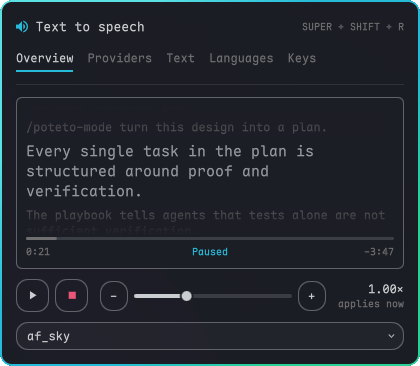
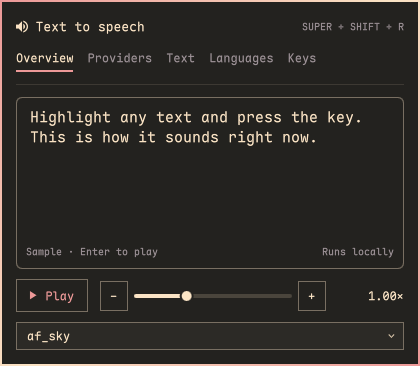
Add a Preferences tab and toggle the voice list on a second click (#8)
Text becomes Preferences, with a Text section (the sanitizer rules and a
compact length-limit row) and a Screen section that now holds the OCR
confidence floor as one slider row. Providers lists engines only, without
the captures note. A press on the voice field no longer closes the list
and reopens it on release, so clicking it again closes it. The README now
shows preview.png, refreshed from a live screenshot.

diff --git a/Panel.qml b/Panel.qml
@@ -19,7 +19,7 @@ Panel {
   readonly property color dim: Commons.Color.muted
   readonly property string ff: bar ? bar.fontFamily : Style.font.family
   property int currentTab: 0
-  readonly property var tabNames: ["Overview", "Providers", "Text", "Languages", "Keys"]
+  readonly property var tabNames: ["Overview", "Providers", "Preferences", "Languages", "Keys"]
   // Sections test the name, not the index, so adding or reordering a tab
   // touches only the list above.
   readonly property string currentTabName: tabNames[currentTab] || ""
@@ -285,6 +285,10 @@ Panel {
   function openUpwardWhenCramped(dropdown) {
     var popup = root.findPopup(dropdown)
     if (!popup || !popup.parent) return
+    // A press on the field itself used to close the list on press-outside
+    // and then reopen it on click. Only presses outside the field close it
+    // now, so a second click on the field toggles it shut.
+    popup.closePolicy = Popup.CloseOnEscape | Popup.CloseOnPressOutsideParent
     var anchor = popup.parent, gap = Style.spacing.xxs
     popup.y = Qt.binding(function() {
       var top = anchor.mapToItem(root, 0, 0).y
@@ -1240,7 +1244,6 @@ Panel {
           Item {
             width: parent.width; height: engineHeader.implicitHeight
             PanelSectionHeader { id: engineHeader; text: "Screen reading"; foreground: root.fg }
-            Text { anchors.right: parent.right; anchors.verticalCenter: parent.verticalCenter; text: "Captures stay on this computer"; color: root.dim; font.family: root.ff; font.pixelSize: Style.font.caption }
           }
           Component {
             id: ocrRow
@@ -1331,33 +1334,6 @@ Panel {
             onCancelled: root.ocrConfirmUninstall = ""
             onConfirmed: function(uninstallTarget) { controller.uninstall(uninstallTarget); root.ocrConfirmUninstall = "" }
           }
-          Item {
-            // A setting of the engine above, not a third group: caption-sized,
-            // with a little air between it and the last engine row.
-            width: parent.width; height: ocrHeader.implicitHeight + Style.space(6)
-            visible: root.activeOcrEngine && root.activeOcrEngine.supportsConfidence === true
-            Text { id: ocrHeader; anchors.bottom: parent.bottom; text: "Confidence floor"; color: root.dim; font.family: root.ff; font.pixelSize: Style.font.caption }
-            Text { anchors.right: parent.right; anchors.bottom: parent.bottom; text: root.confidenceValue > 0 ? root.confidenceValue + "%" : "keep everything"; color: root.fg; font.family: root.ff; font.pixelSize: Style.font.caption }
-          }
-          Row {
-            width: parent.width; spacing: 8
-            visible: root.activeOcrEngine && root.activeOcrEngine.supportsConfidence === true
-            Button { width: 32; text: "−"; bordered: true; focusable: true; onClicked: { var s = Math.max(0, root.confidenceValue - 5); root.confidenceOverride = s; controller.setConfig(".ocr.minConfidence", s) } }
-            PanelSlider {
-              id: confidenceSlider
-              width: parent.width - 80; bar: root.bar
-              minimum: 0; maximum: 95; step: 5; integer: true
-              value: root.confidenceValue
-              function snap(v) { return Math.round(v / 5) * 5 }
-              onMoved: function(v) { var s = confidenceSlider.snap(v); root.confidenceOverride = s; confidenceSlider.liveValue = s }
-              onReleased: function(v) {
-                var s = confidenceSlider.snap(v)
-                root.confidenceOverride = s
-                controller.setConfig(".ocr.minConfidence", s)
-              }
-            }
-            Button { width: 32; text: "+"; bordered: true; focusable: true; onClicked: { var s = Math.min(95, root.confidenceValue + 5); root.confidenceOverride = s; controller.setConfig(".ocr.minConfidence", s) } }
-          }
           // One progress line for the tab: setup runs one engine at a time, speech
           // or OCR, so the two groups never need a line each.
           Text {
@@ -1372,8 +1348,8 @@ Panel {
 
         // Text -------------------------------------------------------------
         Column {
-          width: parent.width; spacing: 8; visible: !root.needsSetup && root.currentTabName === "Text"
-          PanelSectionHeader { text: "What gets spoken"; foreground: root.fg }
+          width: parent.width; spacing: 8; visible: !root.needsSetup && root.currentTabName === "Preferences"
+          PanelSectionHeader { text: "Text"; foreground: root.fg }
           Row {
             width: parent.width; spacing: 8
             Rectangle {
@@ -1405,24 +1381,36 @@ Panel {
           SettingToggle { label: "Announce skipped code blocks"; checked: controller.info.sanitizer?.announceCodeBlocks !== false; foreground: root.fg; onToggled: function(value) { controller.setConfig(".sanitizer.announceCodeBlocks", value) } }
           SettingToggle { label: "Strip Markdown symbols"; checked: controller.info.sanitizer?.stripMarkdown !== false; foreground: root.fg; onToggled: function(value) { controller.setConfig(".sanitizer.stripMarkdown", value) } }
           SettingToggle { label: "Expand abbreviations and units"; checked: controller.info.sanitizer?.expandUnits !== false; foreground: root.fg; onToggled: function(value) { controller.setConfig(".sanitizer.expandUnits", value) } }
-          // How much of a selection is read. It shapes what gets spoken, so
-          // it lives with the other text rules rather than with the voice.
+          // How much of a selection is read. It shapes what gets spoken, so it
+          // sits with the text rules, as one row like the toggles above.
           Item {
-            width: parent.width; height: limitHeader.implicitHeight
-            PanelSectionHeader { id: limitHeader; text: "Length limit"; foreground: root.fg }
-            Text { anchors.right: parent.right; text: controller.info.maxChars > 0 ? "~" + Math.max(1, Math.round(controller.info.maxChars / 900)) + " min" : "unlimited"; color: root.dim; font.family: root.ff; font.pixelSize: Style.font.caption }
-          }
-          Row { width: parent.width; spacing: 8
-            Button { width: 48; text: "−500"; bordered: true; focusable: true; onClicked: controller.setConfig(".maxChars", Math.max(0, Number(controller.info.maxChars)-500)) }
-            TextField {
-              id: maxCharsField; width: parent.width - 112
-              text: String(controller.info.maxChars || 0); foreground: root.fg
-              maximumLength: 7
-              inputMethodHints: Qt.ImhDigitsOnly
-              validator: IntValidator { bottom: 0; top: 1048576 }
-              onEditingFinished: controller.setConfig(".maxChars", Math.max(0, Math.min(1048576, Number(text) || 0)))
+            width: parent.width; height: Math.max(limitLabel.implicitHeight, limitStepper.height)
+            Column {
+              id: limitLabel
+              anchors.left: parent.left; anchors.right: limitStepper.left; anchors.rightMargin: Style.space(8); anchors.verticalCenter: parent.verticalCenter
+              spacing: 1
+              Text { textFormat: Text.PlainText; text: "Length limit"; color: root.fg; font.family: root.ff; font.pixelSize: Style.font.body }
+              Text {
+                width: parent.width; elide: Text.ElideRight; textFormat: Text.PlainText
+                text: controller.info.maxChars > 0 ? "Characters per read · ~" + Math.max(1, Math.round(controller.info.maxChars / 900)) + " min" : "0 reads the whole selection"
+                color: root.dim; font.family: root.ff; font.pixelSize: Style.font.caption
+              }
             }
-            Button { width: 48; text: "+500"; bordered: true; focusable: true; onClicked: controller.setConfig(".maxChars", Math.min(1048576, Number(controller.info.maxChars||0)+500)) }
+            Row {
+              id: limitStepper
+              anchors.right: parent.right; anchors.verticalCenter: parent.verticalCenter; spacing: Style.space(4)
+              Button { width: Style.space(28); height: maxCharsField.height; text: "−"; bordered: true; focusable: true; Accessible.name: "500 fewer characters"; onClicked: controller.setConfig(".maxChars", Math.max(0, Number(controller.info.maxChars)-500)) }
+              TextField {
+                id: maxCharsField; width: Style.space(72)
+                text: String(controller.info.maxChars || 0); foreground: root.fg
+                maximumLength: 7
+                inputMethodHints: Qt.ImhDigitsOnly
+                validator: IntValidator { bottom: 0; top: 1048576 }
+                Accessible.name: "Length limit in characters"
+                onEditingFinished: controller.setConfig(".maxChars", Math.max(0, Math.min(1048576, Number(text) || 0)))
+              }
+              Button { width: Style.space(28); height: maxCharsField.height; text: "+"; bordered: true; focusable: true; Accessible.name: "500 more characters"; onClicked: controller.setConfig(".maxChars", Math.min(1048576, Number(controller.info.maxChars||0)+500)) }
+            }
           }
           Text {
             width: parent.width
@@ -1435,6 +1423,45 @@ Panel {
                     + " UTF-8 bytes per request. Non-Latin characters can use more than one byte."
                   : ""
             color: root.dim; font.family: root.ff; font.pixelSize: Style.font.caption
+          }
+          // Screen -------------------------------------------------------------
+          // How screen captures are read, once an engine is chosen on Providers.
+          // Only engines that report confidence have anything to set here.
+          Item { width: parent.width; height: Style.space(4); visible: confidenceRow.visible }
+          PanelSectionHeader { text: "Screen"; foreground: root.fg; visible: confidenceRow.visible }
+          Item {
+            id: confidenceRow
+            width: parent.width; height: Math.max(confidenceLabel.implicitHeight, confidenceSlider.implicitHeight)
+            visible: !!root.activeOcrEngine && root.activeOcrEngine.supportsConfidence === true
+            Column {
+              id: confidenceLabel
+              anchors.left: parent.left; anchors.verticalCenter: parent.verticalCenter
+              spacing: 1
+              Text { textFormat: Text.PlainText; text: "Confidence floor"; color: root.fg; font.family: root.ff; font.pixelSize: Style.font.body }
+              Text { textFormat: Text.PlainText; text: "Skip words read below it"; color: root.dim; font.family: root.ff; font.pixelSize: Style.font.caption }
+            }
+            PanelSlider {
+              id: confidenceSlider
+              anchors.left: confidenceLabel.right; anchors.leftMargin: Style.space(12)
+              anchors.right: confidenceReadout.left; anchors.rightMargin: Style.space(8)
+              anchors.verticalCenter: parent.verticalCenter; bar: root.bar
+              minimum: 0; maximum: 95; step: 5; integer: true
+              value: root.confidenceValue
+              function snap(v) { return Math.round(v / 5) * 5 }
+              onMoved: function(v) { var s = confidenceSlider.snap(v); root.confidenceOverride = s; confidenceSlider.liveValue = s }
+              onReleased: function(v) {
+                var s = confidenceSlider.snap(v)
+                root.confidenceOverride = s
+                controller.setConfig(".ocr.minConfidence", s)
+              }
+            }
+            Text {
+              id: confidenceReadout
+              anchors.right: parent.right; anchors.verticalCenter: parent.verticalCenter
+              width: Style.space(36); horizontalAlignment: Text.AlignRight
+              text: root.confidenceValue > 0 ? root.confidenceValue + "%" : "off"
+              color: root.fg; font.family: root.ff; font.pixelSize: Style.font.caption
+            }
           }
           Timer { id: previewDelay; interval: 180; onTriggered: controller.previewText(root.previewSource) }
         }

diff --git a/tests/test_qml_contract.py b/tests/test_qml_contract.py
@@ -73,7 +73,13 @@ class QmlContractTests(unittest.TestCase):
 
     def test_provider_and_screen_engines_share_one_providers_tab(self):
         self.assertIn('readonly property var tabNames: ["Overview", "Providers", ', self.panel)
-        self.assertNotIn('"Screen"', self.panel)
+        tab_line = next(line for line in self.panel.splitlines() if "readonly property var tabNames" in line)
+        self.assertNotIn('"Screen"', tab_line)
+        # Screen reading on Providers is engines only; its preference lives on
+        # the Preferences tab, and the privacy note is gone from the header.
+        providers = self.panel[self.panel.index("// Providers: speech ----"):self.panel.index("// Text ----")]
+        self.assertNotIn("confidenceSlider", providers)
+        self.assertNotIn("Captures stay on this computer", self.panel)
         # Sections and shortcuts follow the list, so a later tab change cannot
         # leave a stale index or a dead number key behind.
         self.assertIsNone(re.search(r"currentTab === \d", self.panel))
@@ -228,8 +234,15 @@ class QmlContractTests(unittest.TestCase):
 
 
     def test_overview_is_the_first_tab_and_navigation_follows_the_tab_list(self):
-        self.assertIn('readonly property var tabNames: ["Overview", "Providers", "Text", "Languages", "Keys"]',
+        self.assertIn('readonly property var tabNames: ["Overview", "Providers", "Preferences", "Languages", "Keys"]',
                       self.panel)
+        prefs = self.panel[self.panel.index("// Text ----"):self.panel.index("// Languages ----")]
+        self.assertIn('PanelSectionHeader { text: "Text"', prefs)
+        self.assertIn('PanelSectionHeader { text: "Screen"', prefs)
+        self.assertIn("id: confidenceSlider", prefs)
+        self.assertIn("id: maxCharsField", prefs)
+        # A second click on the voice field closes its list instead of reopening it.
+        self.assertIn("popup.closePolicy = Popup.CloseOnEscape | Popup.CloseOnPressOutsideParent", self.panel)
         self.assertIn("var tabCount = root.tabNames.length", self.panel)
         self.assertNotRegex(self.panel, r"%\s*6\b")
         self.assertNotIn("Qt.Key_6", self.panel)

diff --git a/README.md b/README.md
@@ -11,7 +11,7 @@ clipboard, a copied image, the focused window, the whole monitor, or a region
 you drag. Speech (Piper or Kokoro) and OCR (Tesseract or EasyOCR) run locally.
 
 <p align="center">
-  <img src="docs/screenshots/provider.png" alt="Providers tab with Kokoro ONNX on the CPU and Piper not installed" width="560">
+  <img src="preview.png" alt="Overview tab: the sample text, play, speed slider and voice picker" width="420">
 </p>
 
 ## Features
@@ -84,8 +84,9 @@ Ready only after it has produced speech on this machine.
 Words below `ocr.minConfidence` (default 60) are dropped instead of read; set
 it to `0` to keep everything. Copied PNG, JPEG, WebP, BMP and TIFF images are
 read through OCR. Capture works over fullscreen Steam/Proton games, though
-that varies by game. The engine and confidence floor are under Screen reading
-on the Providers tab; recognition languages have their own Languages tab.
+that varies by game. The engine is chosen under Screen reading on the Providers
+tab, the confidence floor is under Screen on the Preferences tab, and
+recognition languages have their own Languages tab.
 
 ## Command line
 
@@ -109,7 +110,7 @@ speak-voice use en_GB-alba-medium  # make it the default
 
 Text goes through [`lib/sanitize.py`](lib/sanitize.py) first, which strips
 markdown, ANSI codes and box drawing and shortens URLs, paths and hashes. The
-Text tab previews it.
+Preferences tab previews it.
 
 Playback controls are also available from the CLI:
 

diff --git a/CHANGELOG.md b/CHANGELOG.md
@@ -5,6 +5,11 @@ Versioning.
 
 ## Unreleased
 
+- Preferences tab (was Text): a Text section with the sanitizer rules and a
+  compact length-limit stepper, and a Screen section holding the OCR
+  confidence floor, which moved off Providers. Providers now lists engines
+  only. Clicking the voice picker again closes its list instead of reopening
+  it. The README shows the Overview.
 - Overview tab, the new default: a teleprompter for what is being read, with
   the current sentence held in the middle, progress, play/pause, stop and a
   speed slider that retunes the reading in progress (via `--live-rate`).
